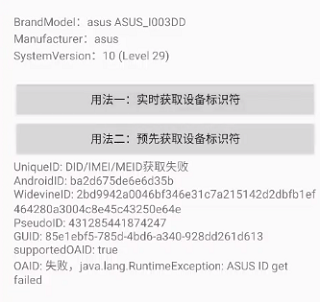
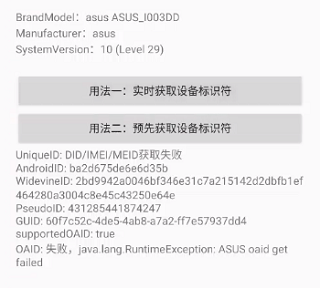
移动安全联盟的接口优先于谷歌服务框架的接口

Changed region(s): [[0.0312, 0.25, 1.0, 0.9375], [0.0312, 0.0312, 0.5938, 0.2188]]

diff --git a/library/src/main/java/com/github/gzuliyujiang/oaid/impl/OAIDFactory.java b/library/src/main/java/com/github/gzuliyujiang/oaid/impl/OAIDFactory.java
@@ -63,14 +63,17 @@ public final class OAIDFactory {
             }
         }
         if (ioaid == null || !ioaid.supported()) {
-            ioaid = new GmsImpl(context);
+            // 若各厂商自家没有提供接口，则优先尝试移动安全联盟的接口
+            ioaid = new MsaImpl(context);
             if (ioaid.supported()) {
-                OAIDLog.print("Google Mobile Service has been found");
+                OAIDLog.print("Mobile Security Alliance has been found");
             } else {
-                ioaid = new MsaImpl(context);
+                // 若不支持移动安全联盟的接口，则尝试谷歌服务框架的接口
+                ioaid = new GmsImpl(context);
                 if (ioaid.supported()) {
-                    OAIDLog.print("Mobile Security Alliance has been found");
+                    OAIDLog.print("Google Play Service has been found");
                 } else {
+                    // 默认不支持
                     ioaid = new DefaultImpl();
                 }
             }
